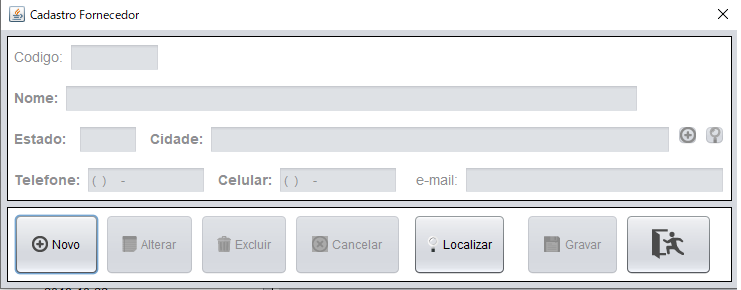
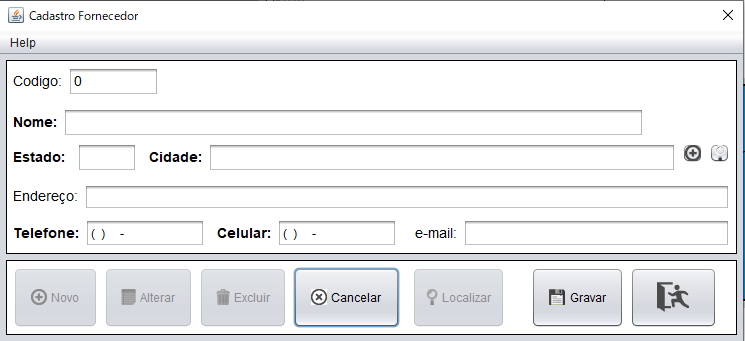
Fim
2019-12-09

diff --git a/public_html/index.html b/public_html/index.html
@@ -330,6 +330,12 @@
         <h2 class="item6" title="16"><a href="../SGGOnlineHelp/consorc.html">Consulta Orçamento</a></h2>
         <h2 class="item6" title="17"><a href="../SGGOnlineHelp/consped.html">Consulta Pedido</a></h2>
         
+        <h2 class="item6" title="18"><a href="../SGGOnlineHelp/consdespesa.html">Consulta Despesa</a></h2>
+        <h2 class="item6" title="19"><a href="../SGGOnlineHelp/conscaixabanco.html">Consulta Caixa Banco</a></h2>
+        <h2 class="item6" title="20"><a href="../SGGOnlineHelp/conscaixageral.html">Consulta Caixa Geral</a></h2>
+        <h2 class="item6" title="21"><a href="../SGGOnlineHelp/consestornocp.html">Consulta Estorno Conta Pagar</a></h2>
+        <h2 class="item6" title="22"><a href="../SGGOnlineHelp/consestornocr.html">Consulta Estorno Conta Receber</a></h2>
+        
         <h1 class="titulo5">Relatório</h1>
         <h2 class="item5" title="01"><a href="../SGGOnlineHelp/relorc.html">Relatório de Orçamento</a></h2>
         <h2 class="item5" title="02"><a href="../SGGOnlineHelp/relped.html">Relatório de Pedido</a></h2>
@@ -337,10 +343,12 @@
         <h2 class="item5" title="04"><a href="../SGGOnlineHelp/relaef.html">Relatório de Ajuste de Estoque de Folha</a></h2>
         <h2 class="item5" title="05"><a href="../SGGOnlineHelp/relnnf.html">Nota não fiscal</a></h2> 
         <h2 class="item5" title="06"><a href="../SGGOnlineHelp/relcomprovante.html">Comprovante</a></h2> 
+        <h2 class="item5" title="07"><a href="../SGGOnlineHelp/espelhocaixa.html">Espelho Caixa</a></h2> 
         
         <h1 class="titulo8">Possiveis Dúvidas</h1>
-        <h2 class="item8" title="01"><a href="../SGGOnlineHelp/consultabranco.html">Não aparece nada na Consulta</a></h2>
+        <h2 class="item8" title="01"><a href="../SGGOnlineHelp/consultabranco.html">Não aparece nada na Consulta.</a></h2>
         <h2 class="item8" title="02"><a href="../SGGOnlineHelp/backup.html">Como realizar o Backup?</a></h2>
         <h2 class="item8" title="02"><a href="../SGGOnlineHelp/restore.html">Como realizar o Restore do Backup gerado?</a></h2><!--Falta Final-->
+        <h2 class="item8" title="02"><a href="../SGGOnlineHelp/relatorio.html">Não exibe o relatório.</a></h2><!--Falta Final-->
     </body>
 </html>

diff --git a/public_html/consestornocr.html b/public_html/consestornocr.html
@@ -6,15 +6,15 @@ and open the template in the editor.
 -->
 <html>
     <head>
-        <title>Relatório Pedido</title>
+        <title>Consulta Estorno Conta Receber</title>
         <meta charset="UTF-8">
         <meta name="viewport" content="width=device-width, initial-scale=1.0">
         <style type="text/css">
             h1{
              padding:10px;
              font-size:20px;
-             border:1px solid #D20000;
-             background: #D20000;
+             border:1px solid #325A8C;
+             background: #32cd32;
              color:#FFF;
              box-shadow:inset 1px 1px 0 rgba(255,255,255,0.5);
              text-align: center;
@@ -40,22 +40,20 @@ and open the template in the editor.
         </style>
     </head>
     <body>
-        <h1>Relatório de Pedido</h1>
-        <img src="img/relped.png" alt="Relatório de Pedido" title="Relatório Pedido"/>
+        <h1>Consulta Estorno Conta Receber</h1>
+        <img src="img/consecr.png" alt="Consulta Estorno Conta Receber" title="Consulta Estorno Conta Receber"/>
         <br/>
-        <p>A tela de Relatório de Pedido tem como objetivo de gerar pedidos em formato pdf ou localmente.</p>
+        <p>A tela de Consulta Estorno Conta Receber tem como objetivo de consultar Contas a Receber já recebidos para realizar o estorno.</p>
         <br/>
         <h2>Opções</h2>
-        <p>Data, Número e Período e Nome</p>
+        <p>Data Vencimento, Período Vencimento, Data Pagamento, Periodo Pagamento e Tudo</p>
         <br/>
-        <h2>Campo obrigatório</h2>
-        <p>Número, Nome e Data.</p>
+        <h2>Campo não obrigatório</h2>
+        <p>Valor.</p>
         <br/>
         <h2>Para Pesquisar:</h2>
-        <p>Clique no botão Gerar Relatorio, escolha a opção entre local ou PDF.</p>
+        <p>Clique no botão Localizar para realizar pesquisas.</p>
         <br/>
-        <p>Local: O relatório será gerado localmente.</p>
-        <p>PDF: O relatório será gerado em formato .pdf, nessa opção o usuário informa o local a ser salvo e o nome do arquivo.</p>
         <a href="../SGGOnlineHelp/index.html">voltar</a>
     </body>
 </html>

diff --git a/public_html/consestornocp.html b/public_html/consestornocp.html
@@ -6,15 +6,15 @@ and open the template in the editor.
 -->
 <html>
     <head>
-        <title>Relatório Pedido</title>
+        <title>Consulta Estorno Conta Pagar</title>
         <meta charset="UTF-8">
         <meta name="viewport" content="width=device-width, initial-scale=1.0">
         <style type="text/css">
             h1{
              padding:10px;
              font-size:20px;
-             border:1px solid #D20000;
-             background: #D20000;
+             border:1px solid #325A8C;
+             background: #32cd32;
              color:#FFF;
              box-shadow:inset 1px 1px 0 rgba(255,255,255,0.5);
              text-align: center;
@@ -40,22 +40,20 @@ and open the template in the editor.
         </style>
     </head>
     <body>
-        <h1>Relatório de Pedido</h1>
-        <img src="img/relped.png" alt="Relatório de Pedido" title="Relatório Pedido"/>
+        <h1>Consulta Estorno Conta Pagar</h1>
+        <img src="img/consecp.png" alt="Consulta Estorno Conta Pagar" title="Consulta Estorno Conta Pagar"/>
         <br/>
-        <p>A tela de Relatório de Pedido tem como objetivo de gerar pedidos em formato pdf ou localmente.</p>
+        <p>A tela de Consulta Estorno Conta Pagar tem como objetivo de consultar as contas pagas para realizar o estorno do valor.</p>
         <br/>
         <h2>Opções</h2>
-        <p>Data, Número e Período e Nome</p>
+        <p>Data Vencimento, Período Vencimento, Data Pagamento, Periodo Pagamento e Tudo</p>
         <br/>
-        <h2>Campo obrigatório</h2>
-        <p>Número, Nome e Data.</p>
+        <h2>Campo não obrigatório</h2>
+        <p>Valor.</p>
         <br/>
         <h2>Para Pesquisar:</h2>
-        <p>Clique no botão Gerar Relatorio, escolha a opção entre local ou PDF.</p>
+        <p>Clique no botão Localizar para realizar pesquisas.</p>
         <br/>
-        <p>Local: O relatório será gerado localmente.</p>
-        <p>PDF: O relatório será gerado em formato .pdf, nessa opção o usuário informa o local a ser salvo e o nome do arquivo.</p>
         <a href="../SGGOnlineHelp/index.html">voltar</a>
     </body>
 </html>

diff --git a/public_html/principal.html b/public_html/principal.html
@@ -51,13 +51,12 @@ and open the template in the editor.
         <p>Na opção Serviços encontramos os Serviços relacionado à: Caixa, Despesa, Movimentar Estoque, Serviços, Receber.</p>
         <p>Na opção Consuta teremos Consulta de: Estado, Cidade, Cliente, Funcionário, Fornecedor, Serviço, Detalhe Serviço, Produto, Folha e Tipo de Conta.</p>
         <p>Na opção Relatorio teremos relatorios de: Ajuste Folha, Ajuste Produto, Orçamentpo e Pedido.</p>
-        <p>Na opção Configurações teremos: Gerar Backup.</p>
         <p>Na opção Sobre teremo as informações do desenvolvedor.</p>
-        <p>Na opção Sair teremos: Log Out e Fechar o Sistema.</p>
+        <p>Na opção Sair teremos: Trocar Usuário, Log Out e Fechar o Sistema.</p>
         <p>Opção Help para abrir o Online Help para realizar consulta caso tenha alguma dúvida.</p>
         <br/>
         <h2>Área 2</h2>
-        <p>Na área 2 encontramos botões para o assesso rápido.</p>
+        <p>Na área 2 encontramos botões para o assesso rápido e o status da caixa.</p>
         <p>Ordem da Esquerda para diretira:</p>
         <p>Abrir Caixa, Retirar Dinheiro, Fechar Caixa, Ajustar Estoque Folha, Ajustar Estoque de Produto, Orçamento, Pedido, Cadastrar Cliente, Cadastrar Funcionário, Pagar Conta e Fazer Log out(deslogar do sistema)</p>
         <br/>
@@ -67,9 +66,7 @@ and open the template in the editor.
         <p>Na tabela exibira Nome, Valor e a Data Vencimento da(s) Contas.</p>
         <br/>
         <h2>Área 4</h2>
-        <p>Na área 4 temos o nome do funcionário logado, a foto, o logo da empresa, calendario e horario atual.</p>
-        <p>Na lista de opção temos: Contas a Pagar e Contas a Receber.</p>
-        <p>Na tabela exibira Nome, Valor e a Data Vencimento da(s) Contas.</p>
+        <p>Na área 4 temos o nome do funcionário logado, a foto, o logo da empresa, calendario, horario atual, Quantidade de Serviços a Fazer e Quantidade de Serviços prontos não entreque.</p>
         <br/>
         <a href="../SGGOnlineHelp/index.html">voltar</a>
     </body>

diff --git a/public_html/conscaixageral.html b/public_html/conscaixageral.html
@@ -6,15 +6,15 @@ and open the template in the editor.
 -->
 <html>
     <head>
-        <title>Relatório Pedido</title>
+        <title>Consulta Caixa Geral</title>
         <meta charset="UTF-8">
         <meta name="viewport" content="width=device-width, initial-scale=1.0">
         <style type="text/css">
             h1{
              padding:10px;
              font-size:20px;
-             border:1px solid #D20000;
-             background: #D20000;
+             border:1px solid #325A8C;
+             background: #32cd32;
              color:#FFF;
              box-shadow:inset 1px 1px 0 rgba(255,255,255,0.5);
              text-align: center;
@@ -40,22 +40,20 @@ and open the template in the editor.
         </style>
     </head>
     <body>
-        <h1>Relatório de Pedido</h1>
-        <img src="img/relped.png" alt="Relatório de Pedido" title="Relatório Pedido"/>
+        <h1>Consulta Caixa Geral</h1>
+        <img src="img/conscaixag.png" alt="Consulta Caixa Geral" title="Consulta Caixa Geral"/>
         <br/>
-        <p>A tela de Relatório de Pedido tem como objetivo de gerar pedidos em formato pdf ou localmente.</p>
+        <p>A tela de Consulta Caixa Geral tem como objetivo de consultar todos os caixas cadastrados, independente de ser um caixa local ou caixa de banco.</p>
         <br/>
         <h2>Opções</h2>
-        <p>Data, Número e Período e Nome</p>
+        <p>Nome</p>
         <br/>
-        <h2>Campo obrigatório</h2>
-        <p>Número, Nome e Data.</p>
+        <h2>Campo não obrigatório</h2>
+        <p>Valor.</p>
         <br/>
         <h2>Para Pesquisar:</h2>
-        <p>Clique no botão Gerar Relatorio, escolha a opção entre local ou PDF.</p>
+        <p>Clique no botão Localizar para realizar pesquisas.</p>
         <br/>
-        <p>Local: O relatório será gerado localmente.</p>
-        <p>PDF: O relatório será gerado em formato .pdf, nessa opção o usuário informa o local a ser salvo e o nome do arquivo.</p>
         <a href="../SGGOnlineHelp/index.html">voltar</a>
     </body>
 </html>

diff --git a/public_html/conscaixabanco.html b/public_html/conscaixabanco.html
@@ -6,15 +6,15 @@ and open the template in the editor.
 -->
 <html>
     <head>
-        <title>Relatório Pedido</title>
+        <title>Consulta Caixa Banco</title>
         <meta charset="UTF-8">
         <meta name="viewport" content="width=device-width, initial-scale=1.0">
         <style type="text/css">
             h1{
              padding:10px;
              font-size:20px;
-             border:1px solid #D20000;
-             background: #D20000;
+             border:1px solid #325A8C;
+             background: #32cd32;
              color:#FFF;
              box-shadow:inset 1px 1px 0 rgba(255,255,255,0.5);
              text-align: center;
@@ -40,22 +40,20 @@ and open the template in the editor.
         </style>
     </head>
     <body>
-        <h1>Relatório de Pedido</h1>
-        <img src="img/relped.png" alt="Relatório de Pedido" title="Relatório Pedido"/>
+        <h1>Consulta Caixa Banco</h1>
+        <img src="img/conscaixabanco.png" alt="Caixa Banco" title="Caixa Banco"/>
         <br/>
-        <p>A tela de Relatório de Pedido tem como objetivo de gerar pedidos em formato pdf ou localmente.</p>
+        <p>A tela de Consulta Caixa Banco tem como objetivo de consultar caixa referente a banco cadastrado.</p>
         <br/>
         <h2>Opções</h2>
-        <p>Data, Número e Período e Nome</p>
+        <p>Nome</p>
         <br/>
-        <h2>Campo obrigatório</h2>
-        <p>Número, Nome e Data.</p>
+        <h2>Campo não obrigatório</h2>
+        <p>Valor.</p>
         <br/>
         <h2>Para Pesquisar:</h2>
-        <p>Clique no botão Gerar Relatorio, escolha a opção entre local ou PDF.</p>
+        <p>Clique no botão Localizar para realizar pesquisas.</p>
         <br/>
-        <p>Local: O relatório será gerado localmente.</p>
-        <p>PDF: O relatório será gerado em formato .pdf, nessa opção o usuário informa o local a ser salvo e o nome do arquivo.</p>
         <a href="../SGGOnlineHelp/index.html">voltar</a>
     </body>
 </html>

diff --git a/public_html/consdespesa.html b/public_html/consdespesa.html
@@ -6,15 +6,15 @@ and open the template in the editor.
 -->
 <html>
     <head>
-        <title>Relatório Pedido</title>
+        <title>Consulta Cheque</title>
         <meta charset="UTF-8">
         <meta name="viewport" content="width=device-width, initial-scale=1.0">
         <style type="text/css">
             h1{
              padding:10px;
              font-size:20px;
-             border:1px solid #D20000;
-             background: #D20000;
+             border:1px solid #325A8C;
+             background: #32cd32;
              color:#FFF;
              box-shadow:inset 1px 1px 0 rgba(255,255,255,0.5);
              text-align: center;
@@ -40,22 +40,20 @@ and open the template in the editor.
         </style>
     </head>
     <body>
-        <h1>Relatório de Pedido</h1>
-        <img src="img/relped.png" alt="Relatório de Pedido" title="Relatório Pedido"/>
+        <h1>Consulta de Cheque</h1>
+        <img src="img/conscheque.png" alt="Consulta de Cheque" title="Consulta Cheque"/>
         <br/>
-        <p>A tela de Relatório de Pedido tem como objetivo de gerar pedidos em formato pdf ou localmente.</p>
+        <p>A tela de Consulta de Cheque tem como objetivo de consultar cheques cadastrados.</p>
         <br/>
         <h2>Opções</h2>
-        <p>Data, Número e Período e Nome</p>
+        <p>Dono e Data</p>
         <br/>
-        <h2>Campo obrigatório</h2>
-        <p>Número, Nome e Data.</p>
+        <h2>Campo não obrigatório</h2>
+        <p>Valor e Data.</p>
         <br/>
         <h2>Para Pesquisar:</h2>
-        <p>Clique no botão Gerar Relatorio, escolha a opção entre local ou PDF.</p>
+        <p>Clique no botão Localizar para realizar pesquisas.</p>
         <br/>
-        <p>Local: O relatório será gerado localmente.</p>
-        <p>PDF: O relatório será gerado em formato .pdf, nessa opção o usuário informa o local a ser salvo e o nome do arquivo.</p>
         <a href="../SGGOnlineHelp/index.html">voltar</a>
     </body>
 </html>

diff --git a/public_html/espelhocaixa.html b/public_html/espelhocaixa.html
@@ -6,7 +6,7 @@ and open the template in the editor.
 -->
 <html>
     <head>
-        <title>Relatório Pedido</title>
+        <title>Relatório Espelho Caixa</title>
         <meta charset="UTF-8">
         <meta name="viewport" content="width=device-width, initial-scale=1.0">
         <style type="text/css">
@@ -40,16 +40,16 @@ and open the template in the editor.
         </style>
     </head>
     <body>
-        <h1>Relatório de Pedido</h1>
-        <img src="img/relped.png" alt="Relatório de Pedido" title="Relatório Pedido"/>
+        <h1>Relatório Espelho Caixa</h1>
+        <img src="img/relce.png" alt="Relatório Espelho Caixa" title="Relatório Espelho Caixa"/>
         <br/>
-        <p>A tela de Relatório de Pedido tem como objetivo de gerar pedidos em formato pdf ou localmente.</p>
+        <p>A tela de Relatório Espelho Caixa tem como objetivo de gerar relatório referente o fechamento do caixa. Contendo o valor recebido e retirado (pago) em dinheiro referente o caixa.</p>
         <br/>
         <h2>Opções</h2>
-        <p>Data, Número e Período e Nome</p>
+        <p>Data</p>
         <br/>
         <h2>Campo obrigatório</h2>
-        <p>Número, Nome e Data.</p>
+        <p>Data.</p>
         <br/>
         <h2>Para Pesquisar:</h2>
         <p>Clique no botão Gerar Relatorio, escolha a opção entre local ou PDF.</p>

diff --git a/public_html/relatorio.html b/public_html/relatorio.html
@@ -1,0 +1,24 @@
+<!DOCTYPE html>
+<!--
+To change this license header, choose License Headers in Project Properties.
+To change this template file, choose Tools | Templates
+and open the template in the editor.
+-->
+<html>
+    <head>
+        <title>Não exibe o relatório</title>
+        <meta charset="UTF-8">
+        <meta name="viewport" content="width=device-width, initial-scale=1.0">
+    </head>
+    <body>
+        <h1>Não exibe o relatório</h1>
+        <h2>Pergunta</h2>
+        <p>Fui gerar o relatório e não gerou.</p>
+        <br/>
+        <h2>Resposta</h2>
+        <p>Ao clicar em Gerar Relatório e for exibido uma mensagem "Relatório em Branco!", significa que não foi possivel encontrar dados para poder gerar o relatório.</p>
+        <p>Esperimeta trocar a opção ou o valor informado. Caso tenha dados cadastrado e não gera, entre em contato com o desenvolvedor.</p>
+        <br/>
+        <a href="../SGGOnlineHelp/index.html">voltar</a>
+    </body>
+</html>

diff --git a/public_html/cadastrofornecedor.html b/public_html/cadastrofornecedor.html
@@ -48,7 +48,7 @@ and open the template in the editor.
         <h2>Campos obrigatórios</h2>
         <p>Nome, Estado, Cidade e Telefone e/ou Celular.</p>
         <h2>Campos não obrigatórios(Dados do Cliente)</h2>
-        <p>e-mail.</p>
+        <p>endereço e e-mail.</p>
         <br/>
         <h2>Para Incluir:</h2>
         <p>Para incluir um novo Fornecedor, clique no botão Novo com o botão direito do mouse, preencha os campos e clique no botão Gravar para gravar o novo registro.</p>

diff --git a/public_html/consped.html b/public_html/consped.html
@@ -46,7 +46,7 @@ and open the template in the editor.
         <p>A tela de Consulta de Pedido tem como objetivo de consultar pedidos cadastrados.</p>
         <br/>
         <h2>Opções</h2>
-        <p>Tudo, Data, Periodo e Número</p>
+        <p>Tudo, Data, Periodo, Número e Nome (Cliente)</p>
         <br/>
         <h2>Campo não obrigatório</h2>
         <p>Valor e Data.</p>
